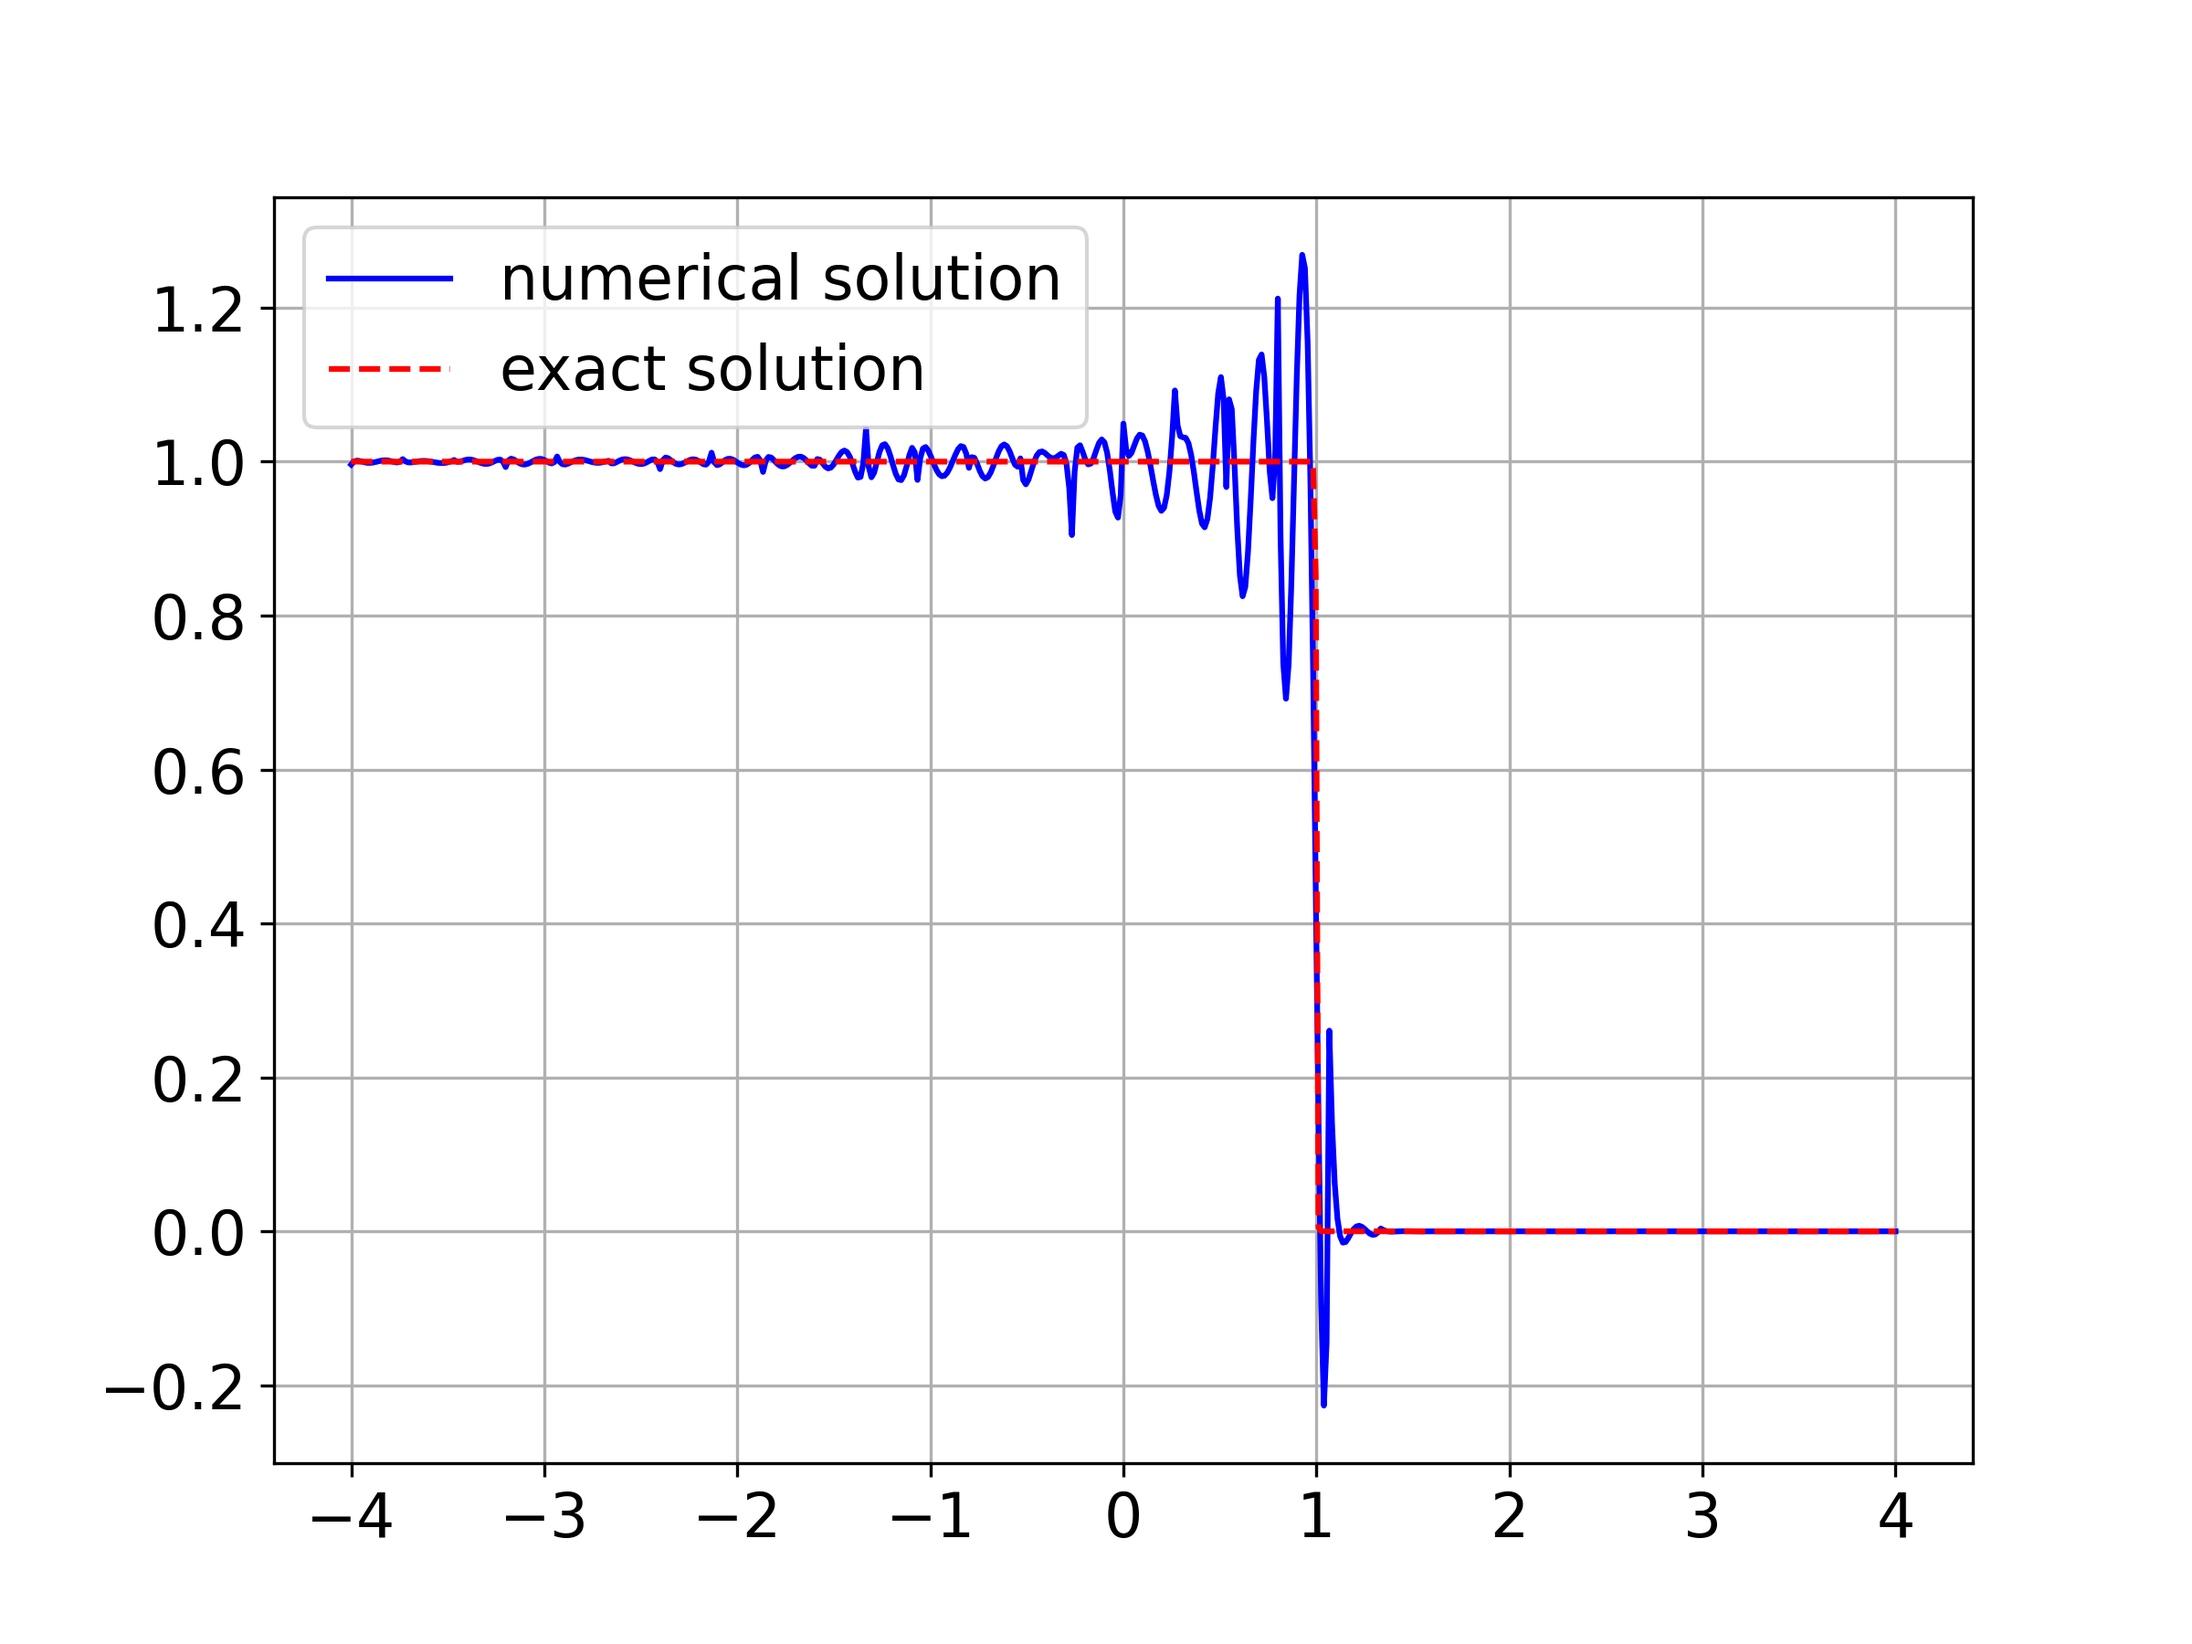
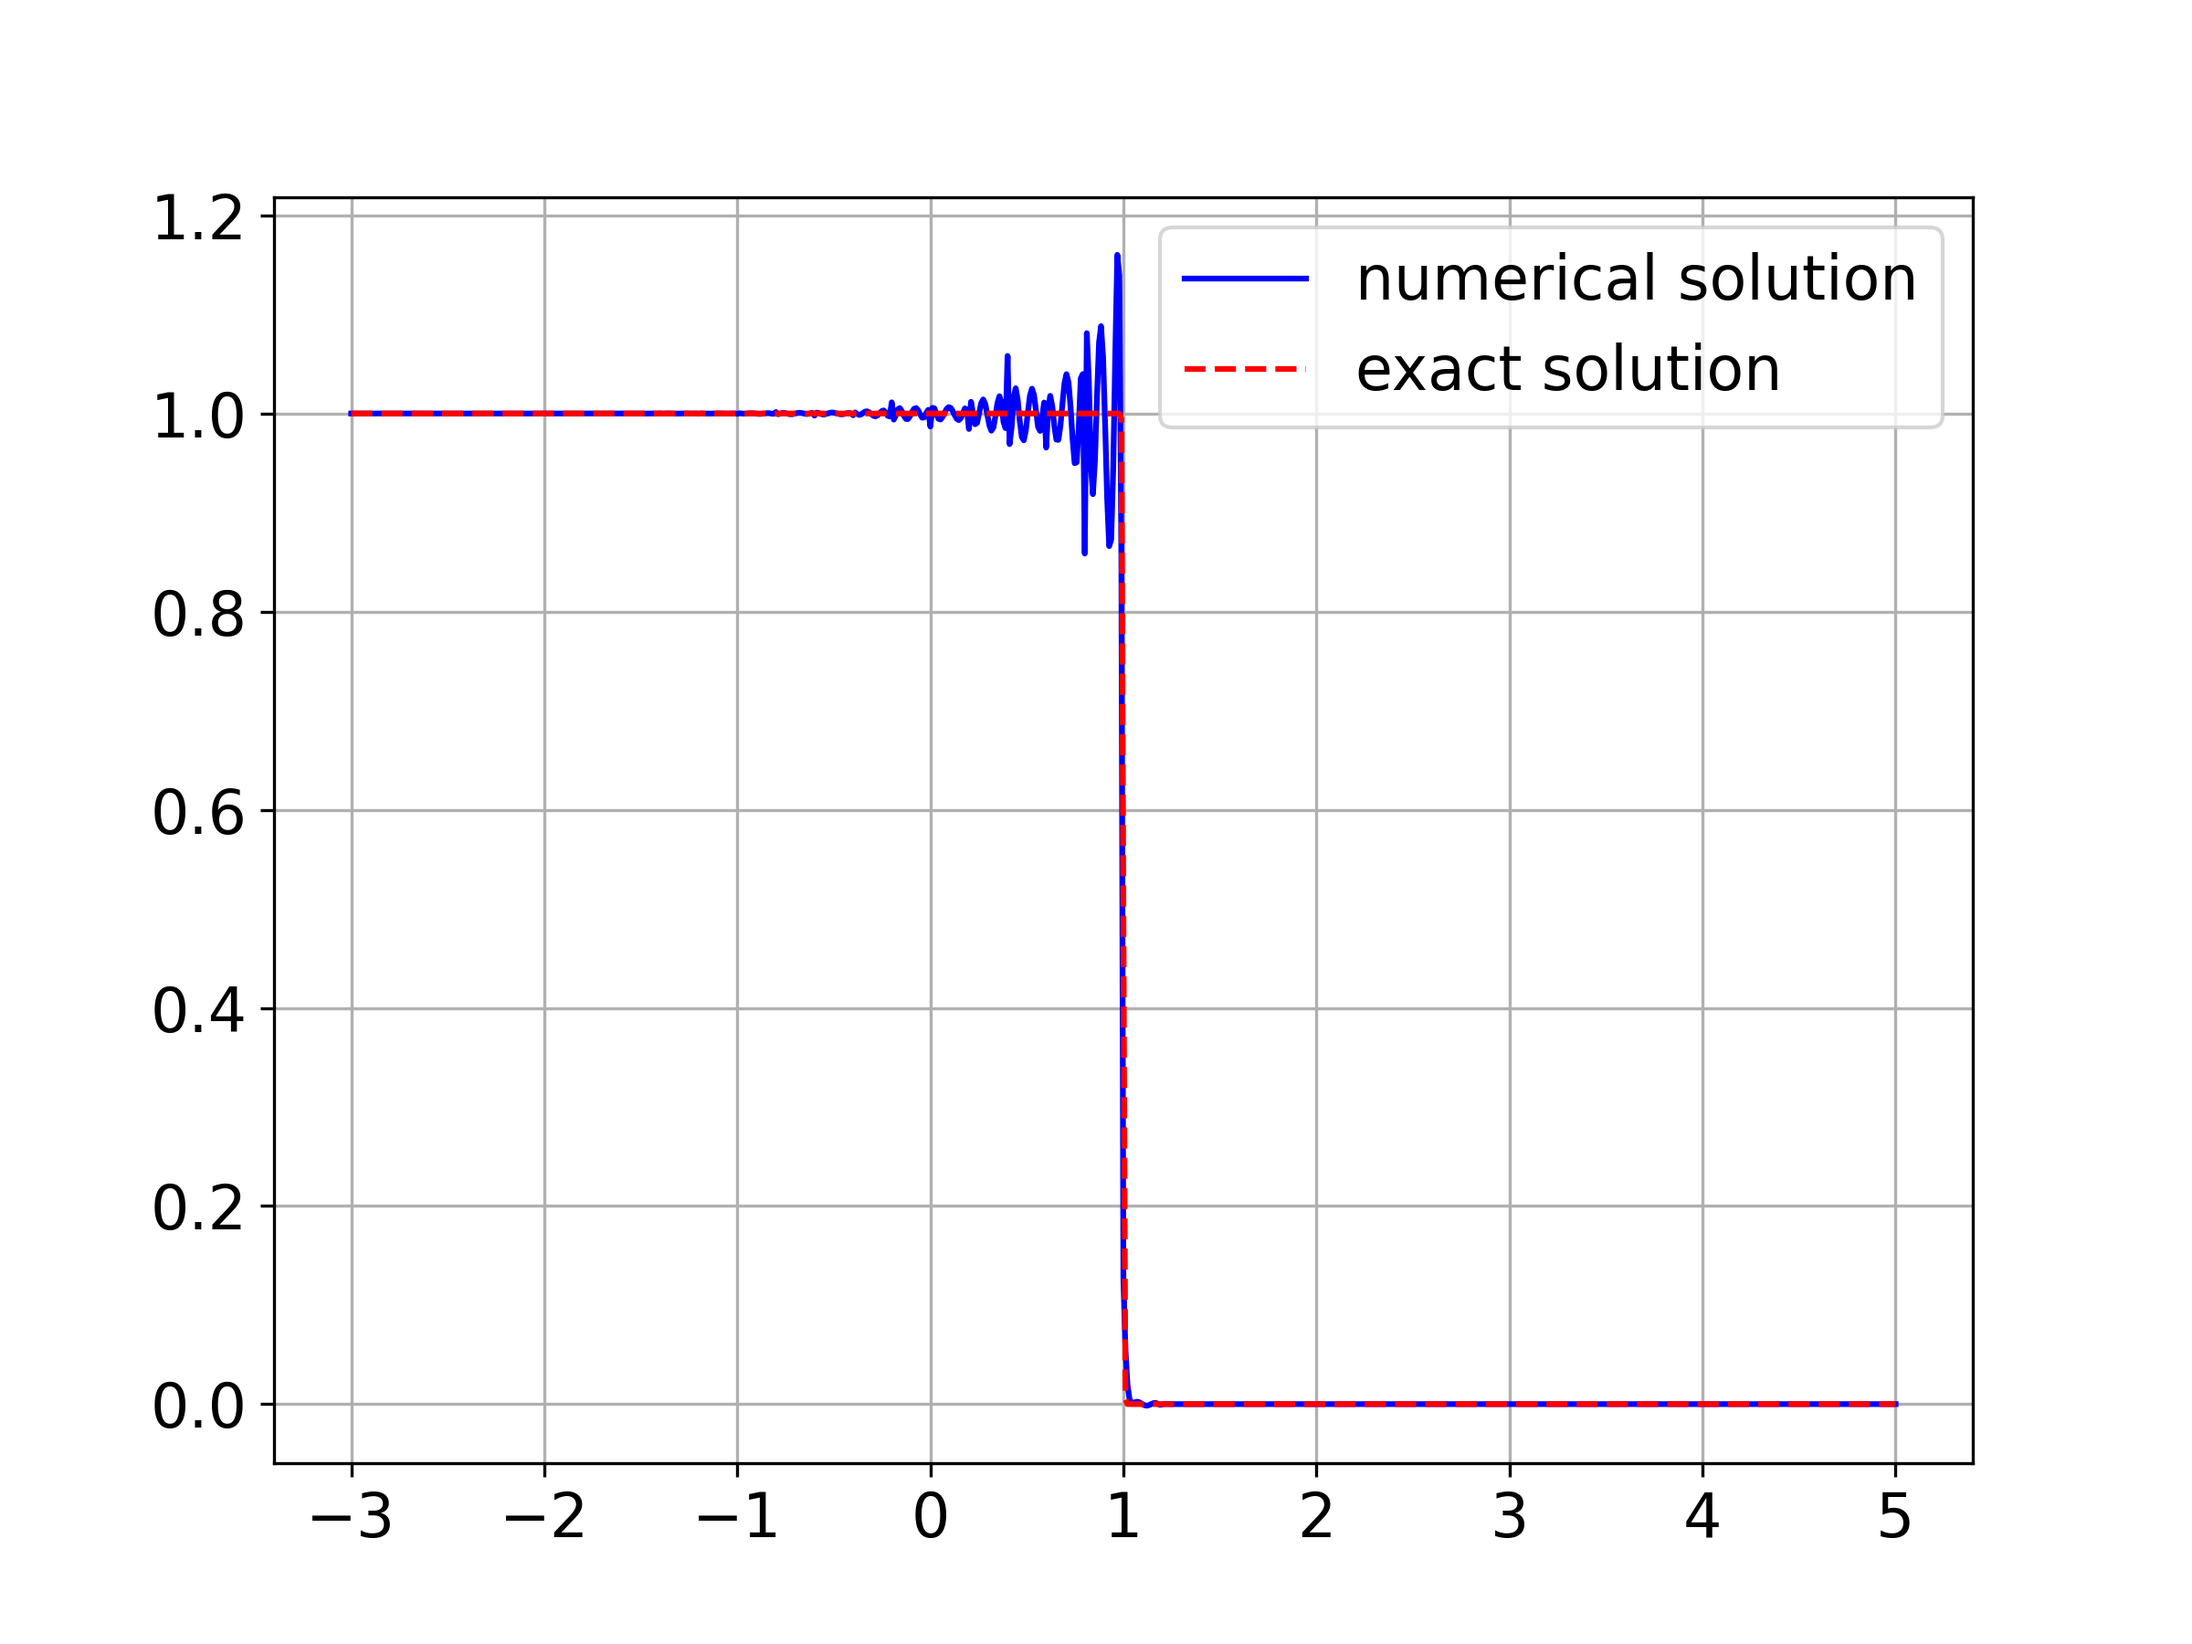
fix the dirichlet BC

diff --git a/lab1/test_Burgers.py b/lab1/test_Burgers.py
@@ -6,10 +6,10 @@ from RHS import RHS
 savepath = "figures/"
     
 ################################################################################
-x_left = -4.0
-x_right = 4.0
-N_element = 30
-P = 5
+x_left = -3.0
+x_right = 5.0
+N_element = 40
+P = 7
 node_type = "GLL"
 
 domain = np.linspace(x_left, x_right, N_element + 1)
@@ -19,7 +19,7 @@ Xh = FEM_space(node_type, P, domain, 1, "linear")
 x = Xh.mesh["x"]
 
 x0 = 0.0
-for i_case in [0]:
+for i_case in range(3):
     if i_case == 0:
         case_name = "burgers_shock"
         uL = 1.0
@@ -42,8 +42,8 @@ for i_case in [0]:
     u0[x>=x0] = uR
 
     nu2 = 1e-3
-
-    RHS_f = RHS(nu2, Xh)
+    BC_dirichlet = [uL,uR]
+    RHS_f = RHS(nu2, Xh, BC_dirichlet)
 
     ################################################################################
     # set up the temporal discretisation

diff --git a/lab1/FEM.py b/lab1/FEM.py
@@ -82,7 +82,9 @@ class FEM_space:
         return u_discontinuous
 
     # Compute the flux function on element basis
-    def dfluxdx_weak_compute_1d(self, u, nu2):
+    def dfluxdx_weak_compute_1d(self, u, nu2, BC_dirichlet):
+        u[0,0] = BC_dirichlet[0]
+        u[-1,-1] = BC_dirichlet[-1]
         # Here the advection term computation does not include the de-aliasing
         adv = u * u / 2.0
         diff = nu2 * (self.conv(self.D, u)) * self.mesh["Jinv"]
@@ -94,8 +96,8 @@ class FEM_space:
      
         dfluxdx_weak =  - integral_volume
         # Dirichlet BC
-        flux_L = 1.0*1.0/2.0 - diff[0,0]
-        flux_R = -diff[-1,-1]
+        flux_L = flux[0,0]
+        flux_R = flux[-1,-1]
         dfluxdx_weak[0,0] += -flux_L
         dfluxdx_weak[-1,-1] += flux_R
 

diff --git a/lab1/RHS.py b/lab1/RHS.py
@@ -1,10 +1,12 @@
 class RHS:
-    def __init__(self, nu2, Xh):
+    def __init__(self, nu2, Xh, BC_dirichlet):
         self.nu2 = nu2
         self.Xh = Xh
+        self.BC_dirichlet = BC_dirichlet
         
     def RHS_maker(self, u, t): # t is a dummy argument for the moment
-        dudt = -self.Xh.dfluxdx_weak_compute_1d(u, self.nu2)\
+        dudt = -self.Xh.dfluxdx_weak_compute_1d(u, self.nu2, \
+                                                self.BC_dirichlet)\
                /self.Xh.mesh["B"]
         # dudt = self.Xh.avgC0(dudt)
         # dudt[0,0] = 1.0
